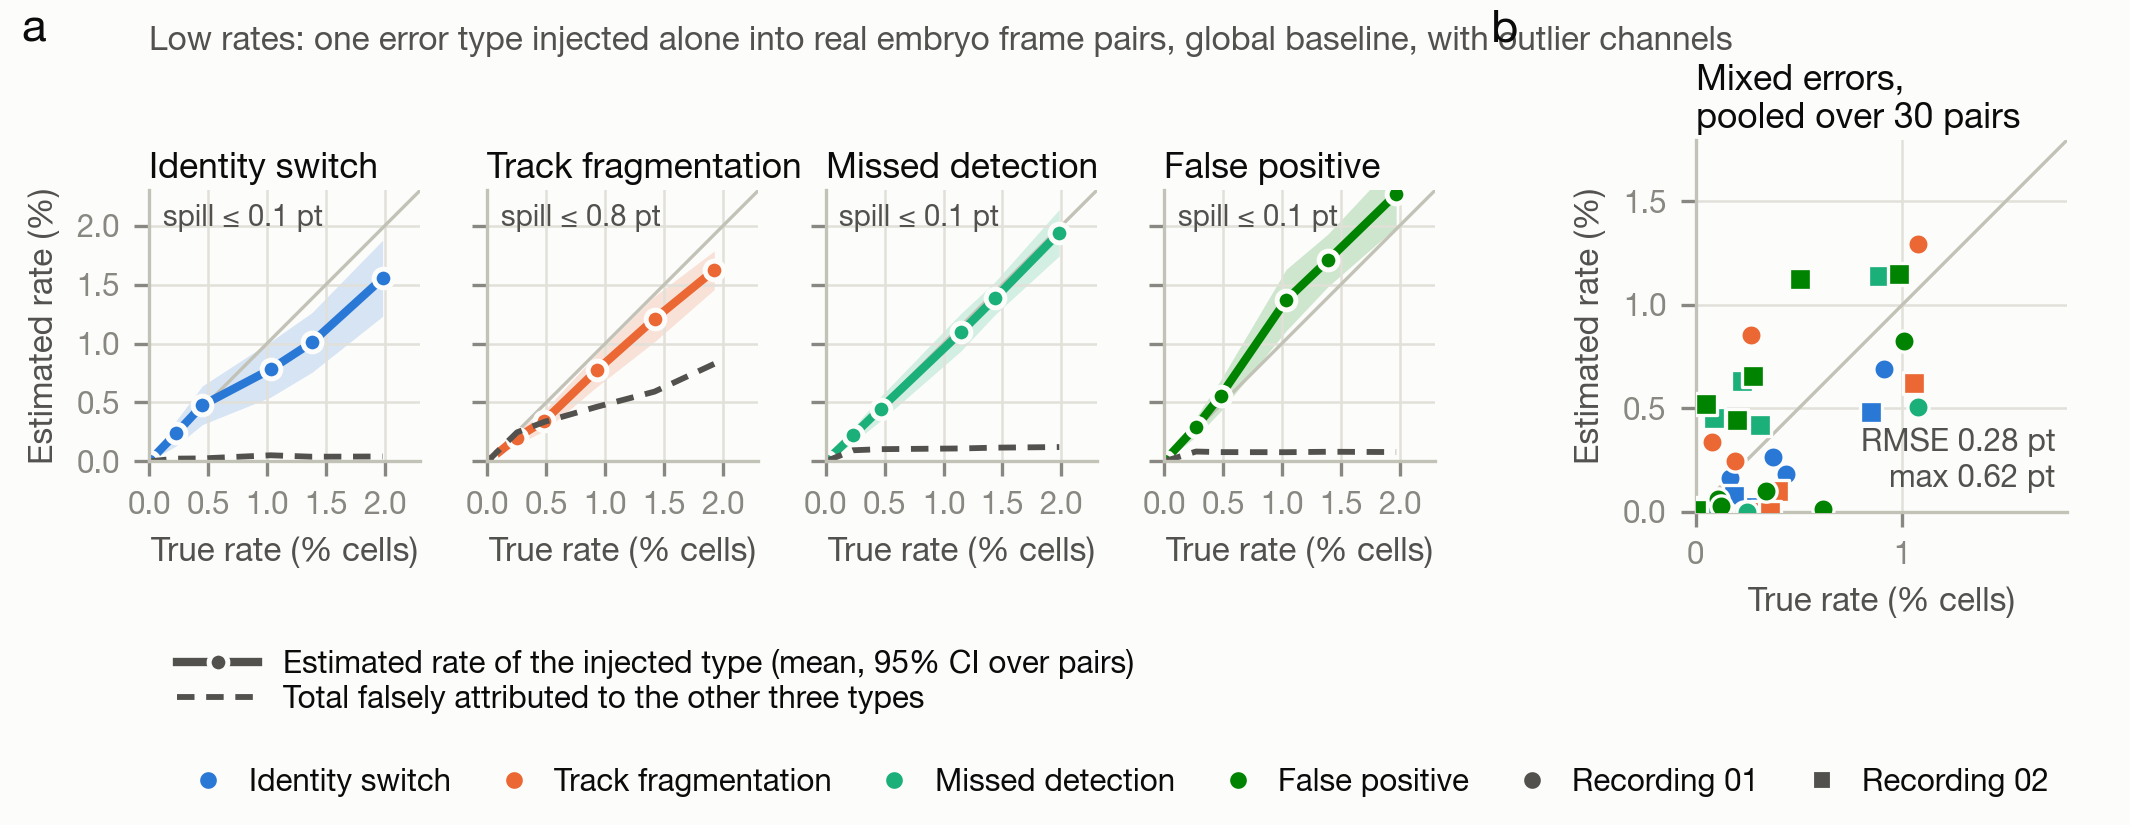
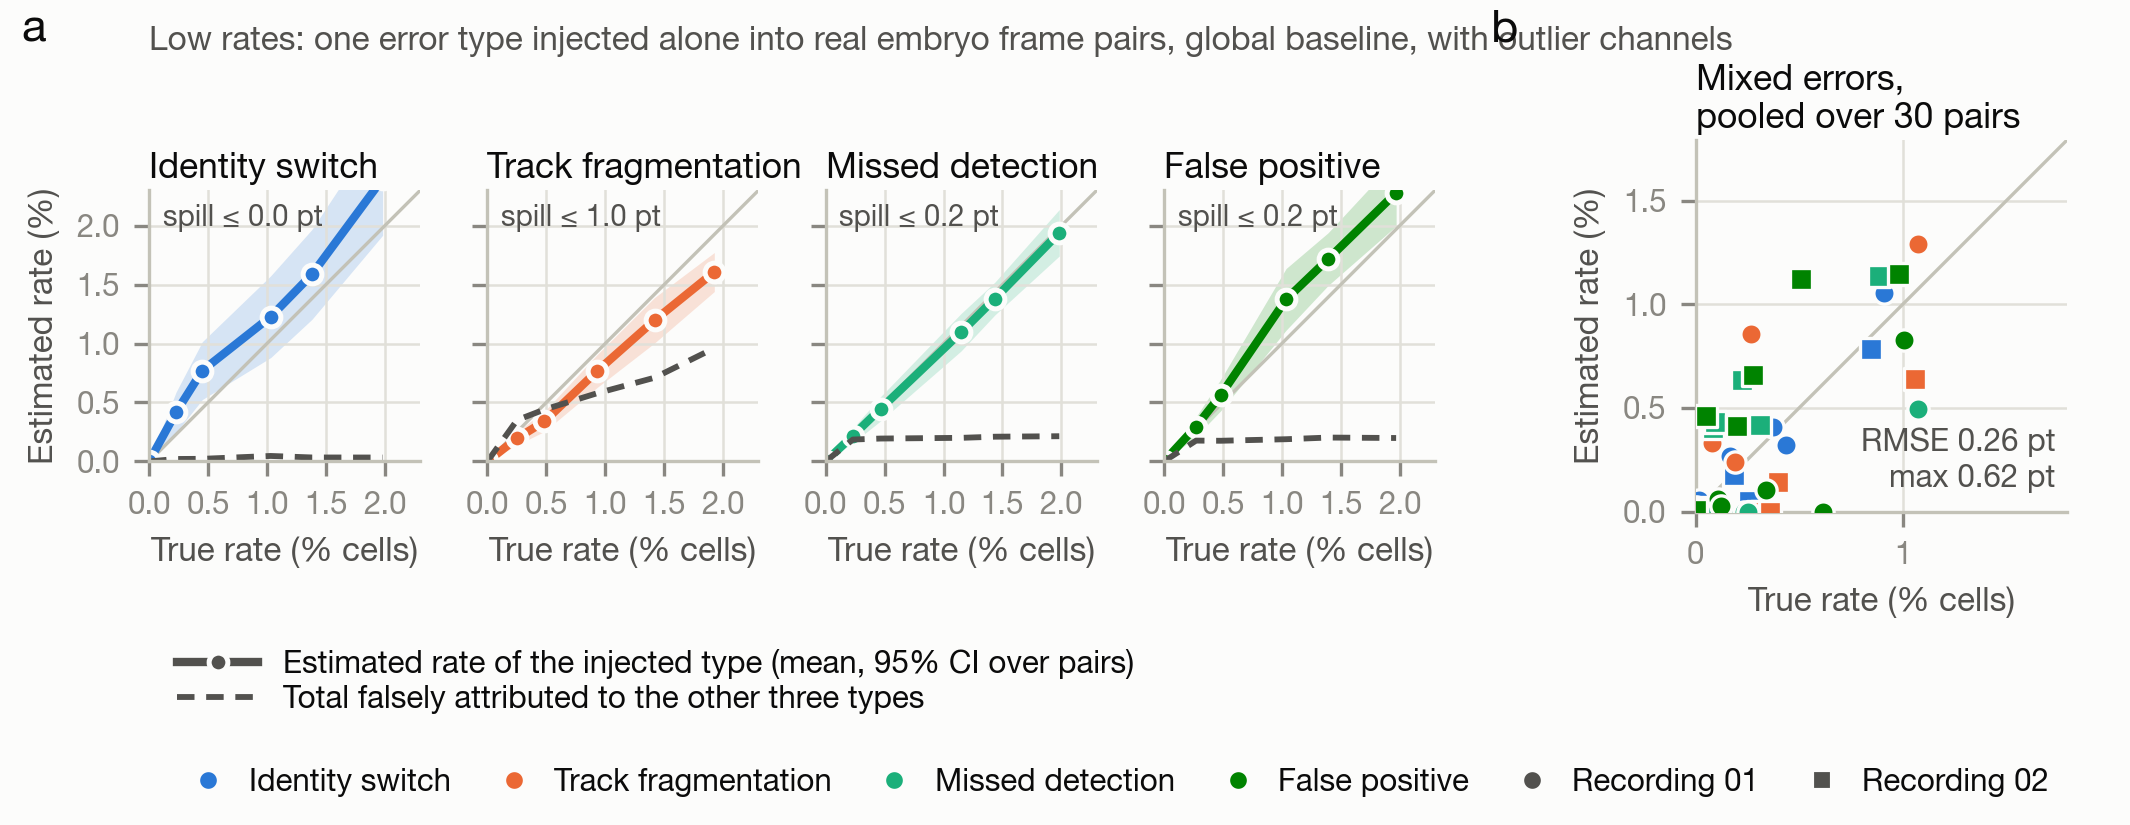
Outlier channels calibrated on the low-rate sweep; per-cell switch locator test
estimate_error_mix.py --outlier-calib <sweep>: the outlier-fraction channels
saturate, so their slopes can be fitted on the low-rate sweep while the
other channels keep the full-range calibration.

scripts/locate_switches.py: flags cells with displaced share > 0.4 (and
optionally rank correlation < 0.3) on held-out embryo pairs with injected
switches and mixtures, and scores precision, whether the flag is the
switched cell itself or a neighbour, event recall, and false alarms on
clean pairs. --mode knn evaluates every cell; delaunay drops hull cells.

diff --git a/scripts/locate_switches.py b/scripts/locate_switches.py
@@ -1,0 +1,156 @@
+"""Test the per-cell displaced-share flag as a switch LOCATOR.
+
+    python scripts/locate_switches.py
+
+On held-out embryo frame pairs, inject identity switches at low rates (and,
+for specificity, mixtures with the other error types), flag every evaluated
+cell whose displaced share exceeds a threshold, and score:
+
+  flag precision   fraction of flagged cells that have a switched cell among
+                   their Delaunay neighbours (t0 or t1)
+  event recall     fraction of switch events with at least one flagged cell
+  label precision  fraction of "displaced" neighbour labels of flagged cells
+                   that are genuinely switched labels (the locator's guess at
+                   WHO switched)
+  false alarms     flagged cells per clean frame pair
+
+Writes data/_results/locate_switches.csv.
+"""
+from __future__ import annotations
+
+import argparse
+import sys
+from pathlib import Path
+
+import numpy as np
+import pandas as pd
+from scipy.spatial import KDTree
+
+ROOT = Path(__file__).resolve().parents[1]
+sys.path.insert(0, str(ROOT / "src"))
+sys.path.insert(0, str(ROOT / "scripts"))
+
+from tracking_validation import ErrorConfig, apply_tracking_errors  # noqa: E402
+from tracking_validation.lineage import division_affected_cells, inherit_parent_labels  # noqa: E402
+from tracking_validation.metrics import (  # noqa: E402
+    compute_neighbour_continuity_observed, _frame_neighbour_map, _frame_neighbour_map_delaunay)
+import ce_error_sweep as sweep  # noqa: E402
+
+SCENARIOS = {
+    "clean":             dict(),
+    "switch 0.5%":       dict(switch=0.005),
+    "switch 1%":         dict(switch=0.01),
+    "switch 2%":         dict(switch=0.02),
+    "switch 1% + others 1% each": dict(switch=0.01, frag=0.01, miss=0.01, fp=0.01),
+    "others only, 2% each":       dict(frag=0.02, miss=0.02, fp=0.02),
+}
+
+
+def config(rates: dict, spacing: float) -> ErrorConfig:
+    return ErrorConfig(p_miss=rates.get("miss", 0.0), fp_rate=rates.get("fp", 0.0), lambda_fp=0.0,
+                       p_switch=rates.get("switch", 0.0) / 2.0, max_switch_distance=3.0 * spacing,
+                       p_frag=rates.get("frag", 0.0), fp_placement="near_cells", fp_offset=spacing,
+                       first_frame_clean=True)
+
+
+def main() -> int:
+    p = argparse.ArgumentParser()
+    p.add_argument("--threshold", type=float, default=0.4)
+    p.add_argument("--rc-threshold", type=float, default=0.3)
+    p.add_argument("--mode", choices=("delaunay", "knn"), default="delaunay",
+                   help="knn evaluates every cell (no hull exclusion), delaunay drops surface cells")
+    p.add_argument("--k", type=int, default=8)
+    p.add_argument("--cap", type=float, default=15.0)
+    p.add_argument("--seeds", type=int, default=3)
+    p.add_argument("--out", type=Path, default=ROOT / "data" / "_results" / "locate_switches.csv")
+    a = p.parse_args()
+    sweep.MODE = a.mode
+
+    def nbmap(pos, ids):
+        if a.mode == "knn":
+            return _frame_neighbour_map(pos, ids, min(a.k, len(ids) - 1), a.cap)[0]
+        return _frame_neighbour_map_delaunay(pos, ids, max_distance=a.cap)[0]
+
+    rows = []
+    for seq in ("01", "02"):
+        data = inherit_parent_labels(sweep.load_ce(ROOT / "data", ROOT / "data" / "_cache", seq), prefer="nearest")
+        start = int(np.argmax(data.counts() >= 50)); frames = data.frames[start:]
+        excluded = division_affected_cells(frames, k=a.k, max_neighbour_distance=a.cap, neighbourhood_mode=a.mode)
+        hi = frames[-1]["positions"].max(axis=0); box = tuple(float(v) for v in (hi + 2.0))
+        held = [ti for ti in range(len(frames) - 1) if ti % 4 != 0]
+        for ti in held[::2]:
+            pair = [frames[ti], frames[ti + 1]]
+            p0 = pair[0]["positions"]; spacing = float(np.median(KDTree(p0).query(p0, k=2)[0][:, 1]))
+            nb0 = nbmap(p0, pair[0]["assigned_ids"])
+            for name, rates in SCENARIOS.items():
+                for seed in range(a.seeds if rates else 1):
+                    obs, log = apply_tracking_errors(pair, config(rates, spacing), box,
+                                                     np.random.default_rng(10_000 * ti + seed))
+                    switched = {ev["true_id_i"] for ev in log["switches"]} | {ev["true_id_j"] for ev in log["switches"]}
+                    events = [(ev["true_id_i"], ev["true_id_j"]) for ev in log["switches"]]
+                    res = compute_neighbour_continuity_observed(obs, k=a.k, neighbourhood_mode=a.mode,
+                                                                max_neighbour_distance=a.cap, extra_metrics=True)
+                    ids = res["cell_ids"]; disp = res["wio_displaced"][0]; rc = res["rank_correlation"][0]
+                    nb1 = nbmap(obs[1]["positions"], obs[1]["assigned_ids"])
+                    set1 = set(obs[1]["assigned_ids"].tolist())
+                    per_cell = {int(c): (v, r) for c, v, r in zip(ids, disp, rc)
+                                if np.isfinite(v) and c not in excluded[ti]}
+                    # two flag rules: displaced share alone, and displaced OR rank-correlation outlier
+                    flag_d = [c for c, (v, r) in per_cell.items() if v > a.threshold]
+                    flag_dr = [c for c, (v, r) in per_cell.items() if v > a.threshold or (np.isfinite(r) and r < a.rc_threshold)]
+                    def score(flagged):
+                        self_hits = 0; adj_hits = 0; label_hits = 0; label_total = 0; hit_events: set = set()
+                        for c in flagged:
+                            n0 = set(nb0.get(c, [])); n1 = set(nb1.get(c, []))
+                            if c in switched:                 # the flagged label itself was switched
+                                self_hits += 1
+                                for (i, j) in events:
+                                    if c in (i, j):
+                                        hit_events.add((i, j))
+                                continue
+                            adjacent = (n0 | n1) & switched   # a neighbour was switched
+                            if adjacent:
+                                adj_hits += 1
+                                for (i, j) in events:
+                                    if i in adjacent or j in adjacent:
+                                        hit_events.add((i, j))
+                                # the locator's guess at WHO: t0 neighbours that left but still exist at t1
+                                guesses = [nb for nb in n0 if nb not in n1 and nb in set1]
+                                label_total += len(guesses); label_hits += sum(g in switched for g in guesses)
+                        return self_hits, adj_hits, label_hits, label_total, len(hit_events)
+                    sd = score(flag_d); sdr = score(flag_dr)
+                    # displaced share of switched cells themselves (how visible is a switch at its own cell?)
+                    own = [per_cell[c][0] for c in switched if c in per_cell]
+                    rows.append(dict(seq=seq, frame=start + ti, scenario=name, seed=seed, n_eval=len(per_cell),
+                                     n_events=len(events), n_switched_evaluated=len(own),
+                                     n_switched_over_thr=int(sum(v > a.threshold for v in own)),
+                                     d_flagged=len(flag_d), d_self=sd[0], d_adjacent=sd[1], d_label_hits=sd[2],
+                                     d_label_guesses=sd[3], d_events_hit=sd[4],
+                                     dr_flagged=len(flag_dr), dr_self=sdr[0], dr_adjacent=sdr[1], dr_events_hit=sdr[4]))
+    df = pd.DataFrame(rows); df.to_csv(a.out, index=False)
+    pd.set_option("display.width", 220)
+    s = df.groupby("scenario").sum(numeric_only=True)
+    s["pairs"] = df.groupby("scenario").size()
+    out = pd.DataFrame({
+        "pairs": s.pairs, "events": s.n_events,
+        "switched cells over thr": s.n_switched_over_thr / s.n_switched_evaluated.replace(0, np.nan),
+        "D: flags/pair": s.d_flagged / s.pairs,
+        "D: precision": (s.d_self + s.d_adjacent) / s.d_flagged.replace(0, np.nan),
+        "D: self share": s.d_self / s.d_flagged.replace(0, np.nan),
+        "D: event recall": s.d_events_hit / s.n_events.replace(0, np.nan),
+        "D: who-precision": s.d_label_hits / s.d_label_guesses.replace(0, np.nan),
+        "D+RC: flags/pair": s.dr_flagged / s.pairs,
+        "D+RC: precision": (s.dr_self + s.dr_adjacent) / s.dr_flagged.replace(0, np.nan),
+        "D+RC: event recall": s.dr_events_hit / s.n_events.replace(0, np.nan),
+    })
+    print(f"Per-cell flags on held-out pairs, {a.mode} neighbourhoods. D = displaced share > {a.threshold}; "
+          f"D+RC = that OR rank correlation < {a.rc_threshold}.\n"
+          "'self share' = fraction of flags that are the switched cell itself (its whole neighbourhood jumps);\n"
+          "'who-precision' = for flags on a NEIGHBOUR of a switch, fraction of departed labels that are the switched ones.\n")
+    print(out.round(3).to_string())
+    print(f"\nwrote {a.out}")
+    return 0
+
+
+if __name__ == "__main__":
+    raise SystemExit(main())

diff --git a/scripts/estimate_error_mix.py b/scripts/estimate_error_mix.py
@@ -221,6 +221,9 @@ def main() -> int:
     p.add_argument("--skip-mixtures", action="store_true", help="skip the random-mixture validation")
     p.add_argument("--outliers", action="store_true",
                    help="add the per-cell outlier-fraction channels (requires sweeps that record them)")
+    p.add_argument("--outlier-calib", type=Path, default=None,
+                   help="sweep CSV (e.g. the low-rate one) used to calibrate ONLY the outlier channels; "
+                        "the count channels saturate, so fit them where the estimator will be used")
     p.add_argument("--seed", type=int, default=0)
     a = p.parse_args()
     sweep.MODE = a.mode
@@ -229,6 +232,11 @@ def main() -> int:
         CHANNELS.extend(c for c in OUTLIER_CHANNELS if c not in CHANNELS)
 
     A, noise, baseline = calibrate(a.sweep, types)
+    if a.outliers and a.outlier_calib is not None:
+        A_low, _, _ = calibrate(a.outlier_calib, types)
+        for ch in OUTLIER_CHANNELS:
+            A.loc[ch] = A_low.loc[ch]
+        print(f"outlier channels calibrated on {a.outlier_calib.name}")
     pd.set_option("display.width", 220); pd.set_option("display.precision", 3)
     print("### Response matrix: metric change (x100) per 1% of cells affected")
     print((A * 100 / 100).round(3).to_string())
